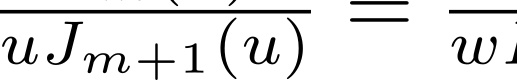
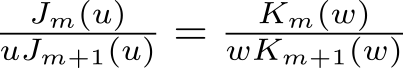
smaller images

diff --git a/README.md b/README.md
@@ -13,11 +13,11 @@ $V=k_0 a {\rm NA} = \frac{2\pi}{\lambda_0} a \sqrt{n_{\rm co}^2-n_{\rm cl}^2}$
 where $\lambda_0$ is the wavelength, a the core radius and n_co and n_cl are the refractive indeces of the core and the cladding, respectively.
 
 Valid fiber modes that can be guided are determined by solutions of the equation
-
+![jk relation](doc_etc/for_jk.png)
 $\frac{J_m(u)}{uJ_{m+1}(u)} = \frac{K_m(w)}{wK_{m+1}(w)}$
 
 where J_i and K_i are the _i_ - th Bessel functions, and _u_ and _w_ dimensionless, positive numbers fulfilling the condition.
-
+![uw relation](doc_etc/for_uw.png)
 $V^2 = u^2 + w^2$
 ## besselmode(m, u, w, x, y, phioff)
 
